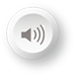
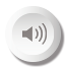
更换新按钮图标，增加告警区域发给下位机，去掉配置中默认的站位

diff --git a/hwidget.cpp b/hwidget.cpp
@@ -959,6 +959,7 @@ void HWidget::mouseReleaseEvent(QMouseEvent *e){
         mw->widget1->isClicked = false;
 
         if(mw->widget3->isClicked){
+
             int height = mw->widget1->mat.rows;
             int width = height * mw->widget3->width() / mw->widget3->height();
             int xx2, yy2;
@@ -993,6 +994,7 @@ void HWidget::mouseReleaseEvent(QMouseEvent *e){
                 rectan=  mw->widget1->rectan3;
                 mw->widget3->setRect(mw->widget2->rectan3);
             }
+
             mw->widget3->setRect(mw->widget1->rectan3);
             Mat mat1 = mw->widget1->getTwoPano();
             Size dsize ;

diff --git a/nwidget2.cpp b/nwidget2.cpp
@@ -689,6 +689,15 @@ void NWidget2::CompleteRGDefining(){
        mw->rgs[mw->rgsIndex].addRegion(mw->rs[i]);
    }
 
+   //将矩形告警区设置下发到下位机
+     vector <vector<cv::Point> > polys;
+
+     for(int i= 0;i<mw->rs.size();i++){
+          polys.push_back(mw->rs[i].poly);
+     }
+
+      SetORIPoints(polys);
+
    mw->rs.clear();
    this->rs.clear();
    //两种情况：自然的编辑，完成一个添加一个组，index总是最后一个组

diff --git a/myinterface.cpp b/myinterface.cpp
@@ -288,10 +288,10 @@ int MyInterface::getIntegratedData2(){
     index1++;
     //QString filename("./s1/1.bmp")
     qDebug()<<"getdata2";
-    QString filename("./s/");
+    QString filename("./s1/");
 
     //QString qj = vc[(index1)%6];
-    index1=index1%6;
+    index1=index1%314;
     qDebug()<<"getdata3";
     filename = filename.append(QString::number(index1)).append(".bmp");
     qDebug()<<"filename"<<filename;

diff --git a/nwidget1.cpp b/nwidget1.cpp
@@ -679,6 +679,14 @@ void NWidget1::CompleteRGDefining(){
    for(int i = 0; i < mw->rs.size(); i++){
        mw->rgs[mw->rgsIndex].addRegion(mw->rs[i]);
    }
+//将矩形告警区设置下发到下位机
+  vector <vector<cv::Point> > polys;
+
+  for(int i= 0;i<mw->rs.size();i++){
+       polys.push_back(mw->rs[i].poly);
+  }
+
+   SetORIPoints(polys);
 
    mw->rs.clear();
    this->rs.clear();

diff --git a/configuration.cpp b/configuration.cpp
@@ -394,7 +394,8 @@ void Configuration::zhanModify(){
         return;
     }
 
-    zhan->setText(newName.append("站位"));
+    //zhan->setText(newName.append("站位"));
+    zhan->setText(newName);
     mw->zhanweiLabel->setText(newName);
 
 
